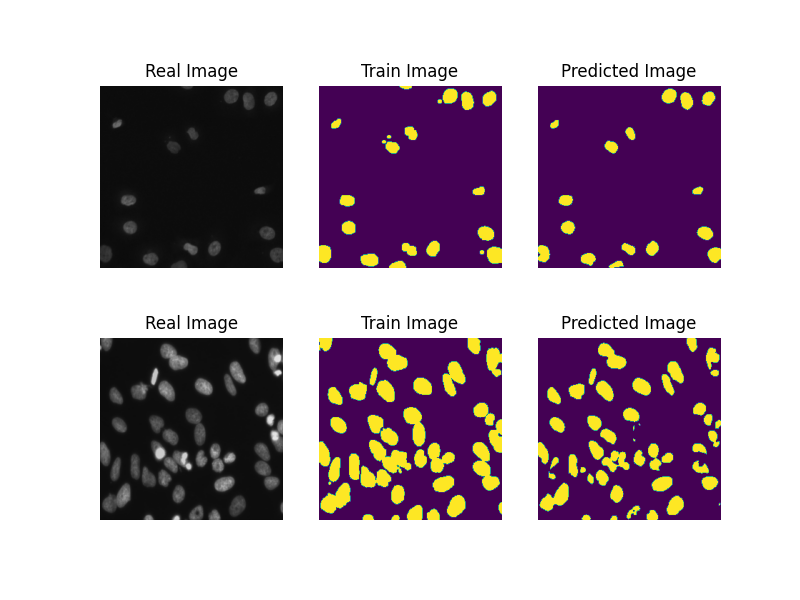
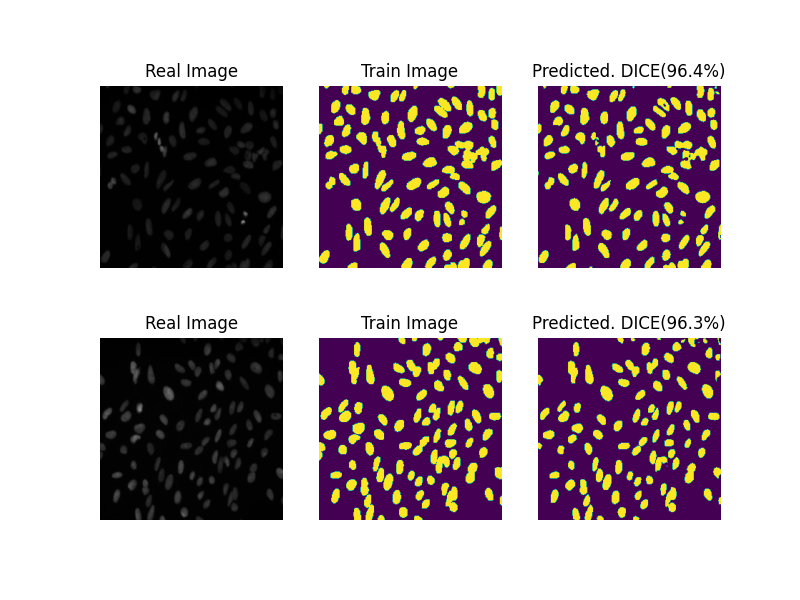
some midificarions

diff --git a/UNet(semantic segmentation)/Predict_masks.py b/UNet(semantic segmentation)/Predict_masks.py
@@ -83,7 +83,10 @@ ax[0, 1].axis('off')
 ax[0, 1].set_title('Train Image')
 ax[0, 2].imshow(preds_train_t[0])
 ax[0, 2].axis('off')
-ax[0, 2].set_title('Predicted Image')
+score = model.evaluate(np.expand_dims(X_train[0], axis=0),
+                       np.expand_dims(Y_train[0], axis=0),
+                       verbose=3)
+ax[0, 2].set_title('Predicted. DICE({}%)'.format(round(score[1]*100, 1)))
 ax[1, 0].imshow(X_train[1])
 ax[1, 0].axis('off')
 ax[1, 0].set_title('Real Image')
@@ -92,7 +95,10 @@ ax[1, 1].axis('off')
 ax[1, 1].set_title('Train Image')
 ax[1, 2].imshow(preds_train_t[1])
 ax[1, 2].axis('off')
-ax[1, 2].set_title('Predicted Image')
+score = model.evaluate(np.expand_dims(X_train[1], axis=0),
+                       np.expand_dims(Y_train[1], axis=0),
+                       verbose=3)
+ax[1, 2].set_title('Predicted. DICE({}%)'.format(round(score[1]*100, 1)))
 plt.savefig('training.png')
 plt.show()
 
@@ -114,3 +120,5 @@ for n, id_ in tqdm(enumerate(test_ids), total=len(test_ids)):
     cv2.imwrite('output/' + test_ids[n] + ".png",
                 cv2.resize((preds_test_t[n] * 255), dsize=(512, 512),
                            interpolation=cv2.INTER_LANCZOS4))
+
+
